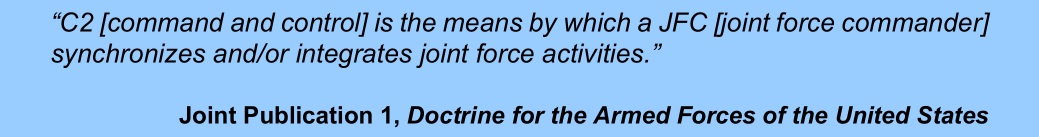
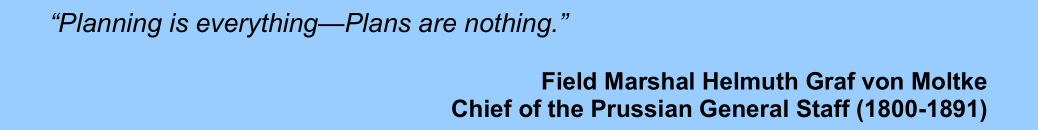
finished chapter 2

diff --git a/chapters/2-commandandcontrol.tex b/chapters/2-commandandcontrol.tex
@@ -1,5 +1,29 @@
 \chapter{Command and Control}
 
 \begin{center}
-    \makebox[\textwidth]{\includegraphics[width=\paperwidth]{quote3.png}}
+    \makebox[\textwidth]{\includegraphics[width=\paperwidth]{quote2.png}}
 \end{center}
+
+\section{Introduction}
+
+\e
+	\item Le \gls{cas} requiert une structure \gls{cc} intégrée, flexible, et qui réagit rapidement.
+	
+	\item Le \gls{jfc} exerce son \gls{opcon} via les commandants des différentes composantes, le \gls{jfacc} pour le \gls{cas} (généralement).
+\ed
+
+\section{Le CAS en opération mixte}
+
+\e
+	\item Il n'y a pas de structure \gls{cc} pré-établie unique pour les opérations de \gls{cc}.
+	\item \gls{awacs} \\
+	L'\gls{awacs} fournit les informations de transit, et le contrôle et la surveillance radar pour les appareils se déplaçant entre leur base et leur zone d'opération. L'\gls{awacs} soutient les opérations de \gls{cas} en servant de relais entre les appareils de \gls{cas} et l'\gls{opcon}. L'\gls{awacs} à l'autorité pour établir le \gls{stack} des appareils.	
+\ed
+
+\section{Systèmes de communications}
+
+\e
+	\item Contrôle et flexibilité \\
+	Les missions \gls{cas} demandent un contrôle rapproché, rendu possible par des communications efficaces. Les communications doivent être flexibles et rapides pour s'assurer que le lien entre les unités au sol et les appareils qui les soutiennent est maintenu.
+	\item Tous les participants au \gls{cas} doivent connaître les call-signs et fréquences utilisés par les agences de contrôle et les \gls{jtac} qu'ils devront contacter.
+\ed
